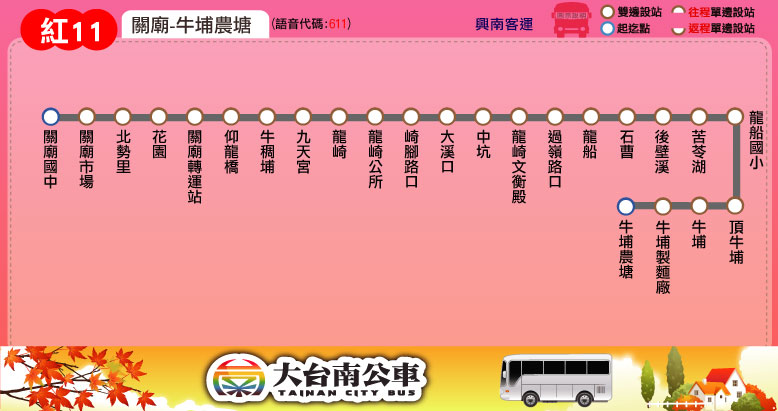
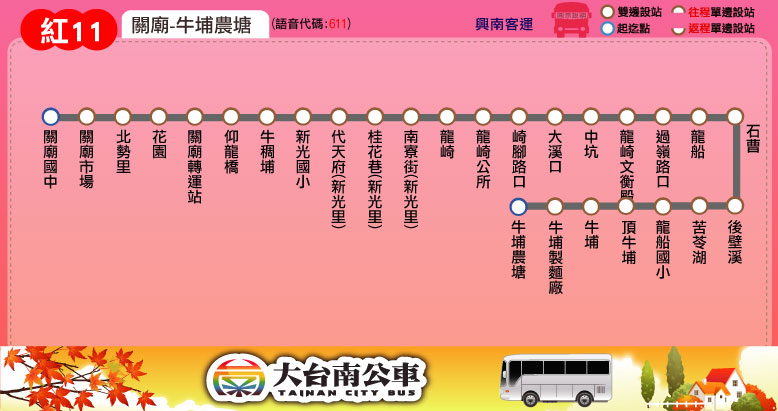
更新路線圖、時刻表：紅11 (繞駛關廟新光里)

Changed region(s): [[0.3702, 0.292, 0.9563, 0.7299], [0.9563, 0.2628, 0.9871, 0.4088]]

diff --git a/route/fare_and_time/red_11.js b/route/fare_and_time/red_11.js
@@ -1,7 +1,7 @@
 red_11_interval_name = ["關廟","花園","龍崎","中坑","龍船","苦苓湖","牛埔農塘"];
 red_11_interval_stop = [
 ["關廟國中","關廟市場"], // 關廟
-["北勢里","花園","關廟轉運站","仰龍橋","牛稠埔","九天宮"], // 花園
+["北勢里","花園","關廟轉運站","仰龍橋","牛稠埔","新光國小","代天府(新光里)","桂花巷(新光里)","南寮街(新光里)"], // 花園
 ["龍崎","龍崎公所","崎腳路口","大溪口"], // 龍崎
 ["中坑","龍崎文衡殿"], // 中坑
 ["過嶺路口","龍船"], // 龍船
@@ -20,8 +20,8 @@ red_11_fare = [
 // format = [time at the start stop] or
 // [time, other] or
 // [time, start_stop, end_stop, other]
-red_11_main_stop_name = ["關廟國中","關廟<br />轉運站","龍崎","苦苓湖","牛埔農塘"];
-red_11_main_stop_time_consume = [0, 5, 10, 20, 25];
-red_11_important_stop = [0, 1, 2, 4]; // 關廟國中, 關廟轉運站, 龍崎, 牛埔農塘
-red_11_time_go = [["07:05"],["08:10"],["09:10"],["10:20"],["13:50"],["14:50"],["15:40"]];
-red_11_time_return = [["07:40"],["08:40"],["09:40"],["10:50"],["14:15"],["15:15"],["16:05"]];
+red_11_main_stop_name = ["關廟國中","關廟<br />轉運站","代天府<br />(新光里)","龍崎","苦苓湖","牛埔農塘"];
+red_11_main_stop_time_consume = [0, 5, 10, 15, 25, 30];
+red_11_important_stop = [0, 1, 3, 5]; // 關廟國中, 關廟轉運站, 龍崎, 牛埔農塘
+red_11_time_go = [["07:05"],["08:10"],["09:10"],["10:20"],["13:30"],["14:30"],["15:30"]];
+red_11_time_return = [["07:35"],["08:40"],["09:40"],["10:50"],["14:00"],["15:00"],["16:00"]];
